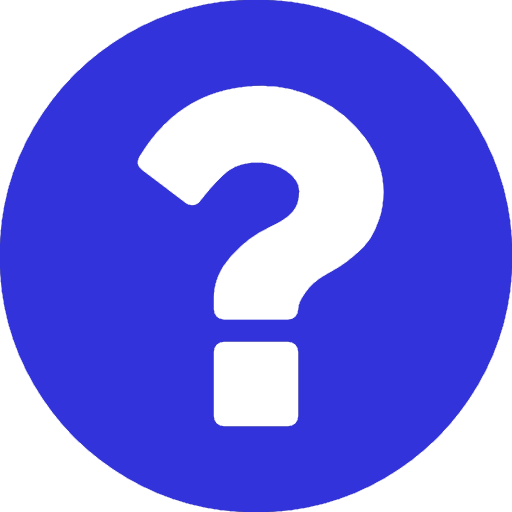
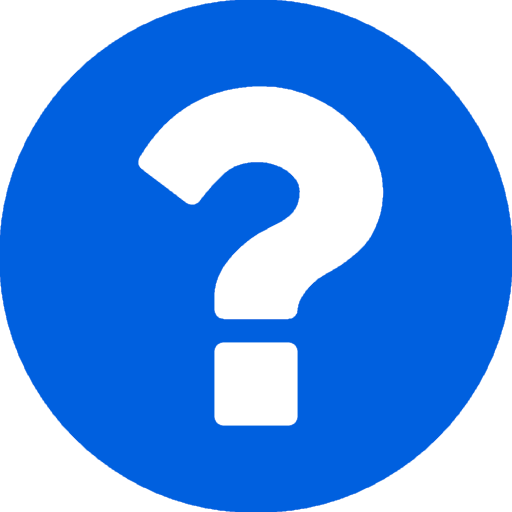
styling improvement

diff --git a/static/styles.css b/static/styles.css
@@ -1,17 +1,10 @@
 body {
-    padding: 10px;
+    padding-left: 10px;
     font-family: 'Poppins', sans-serif;
-}
-
-
-
-h1 {
-    justify-content: center;
 }
 
 label {
     font-size: large;
-    font-weight: 100;
     margin-bottom: 5px;
 }
 
@@ -22,20 +15,13 @@ img {
     height: auto;
 }
 
-
-
 textarea{
     font-family:Verdana, Geneva, Tahoma, sans-serif;
     padding: 5px;
     background-color: rgb(236, 236, 236);
     border-radius: 5px;
     border: none;
-}
-
-
-
-p {
-    color: red;
+    margin-bottom:10px;
 }
 
 .analyzeForm {
@@ -45,51 +31,41 @@ p {
     justify-content:center;
     margin:auto;
     width: 100%;
-    height:80vh;
+    height: 85vh;
 }
 
 .containerAnalysis {
     display: flex;
-    width:49.5%;
-    /* max-width: 450px; */
+    width: 47vmax;
     flex-direction:column;
-    min-width: 450px;
-    min-height: 100px;
     margin-right: 10px;
 }
 
 .containerAnalysis textarea {
-    max-width: 100%;
-    min-width: 90%;
-    min-height: 100px;
+    min-height: 220px;
     height: 100%;
     resize: vertical;
 }
 
-
-
-
 .containerQuestionAnswer {
     display: flex;
-    width:49.5%;
-    /* max-width: 450px; */
+    width:47vmax;
     flex-direction:column;
-    min-width: 450px;
-    min-height: 100px;
     align-items: center;
+    margin-right: 10px;
 }
 
 .inputQuestion {
     display: flex;
-    /* max-width: 450px; */
     flex-direction:column;
-    height: 70px;
+    height: 82px;
     width: 100%;
 }
 
 .inputQuestion input {
     height: 100%;
     font-family:Verdana, Geneva, Tahoma, sans-serif;
+    font-size: medium;
     padding: 5px;
     background-color: rgb(236, 236, 236);
     border-radius: 5px;
@@ -103,42 +79,37 @@ p {
     flex-direction:column;
     width: 100%;
     height: 100%;
-    min-width: 450px;
     min-height: 100px;
 }
 
 .textAreaAnswer textarea{
-    max-width: 100%;
-    min-width: 90%;
     min-height: 100px;
     height: 100%;
     resize: vertical;
 }
 
-
-
 .submitButton {
-    margin: auto;
     width: 100%;
+    height: 40px;
     padding: 10px;
     margin-top: 10px;
     margin-bottom: 10px;
-    font-family:Verdana, Geneva, Tahoma, sans-serif;
+    font-family: 'Poppins', sans-serif;
     background-color: rgb(236, 236, 236);
     border-radius: 5px;
     color: black;
-    border: solid 2px rgb(51, 51, 219);
+    border: solid 2px #0060DF;
     transition-duration: 0.2s;
 }
   
   .submitButton:hover {
-    background-color: rgb(51, 51, 219); /* Green */
+    background-color: #0060DF; /* Green */
     color: white;
   }
 
 .loader {
     border: 4px solid #f3f3f3; /* Light grey */
-    border-top: 4px solid rgb(51, 51, 219); /* Blue */
+    border-top: 4px solid #0060DF; /* Blue */
     border-radius: 50%;
     width: 20px;
     height: 20px;

diff --git a/templates/index.html b/templates/index.html
@@ -11,24 +11,25 @@
 
 <body>
     <h1>
-    <img src="{{ url_for('static', filename='questionmark.png') }}" alt="Italian Trulli">
-    Question Answering</h1>
+        <img src="{{ url_for('static', filename='questionmark.png') }}" alt="Italian Trulli">
+        Question Answering
+    </h1>
     <form class="analyzeForm" id="analyzeForm" onSubmit="processInputs()" name="question_form">
         <div class="containerAnalysis">
-            <label for="textToAnalyze">Text for Analysis:</label>
-            <textarea id="textToAnalyze" name="textToAnalyze"></textarea><br><br>
+            <label for="textToAnalyze">Text for Analysis</label>
+            <textarea id="textToAnalyze" name="textToAnalyze" maxlength="20480"></textarea><br><br>
         </div>
         <div class="containerQuestionAnswer">
             <div class="inputQuestion">
-                <label for="question">Question:</label>
+                <label for="question">Question</label>
                 <input type="text" id="question" name="question"></textarea><br><br>
             </div>
-            <input class="submitButton" id="submitButton" type="submit" value="Answer Question" >
+            <input class="submitButton" id="submitButton" type="submit" value="Answer Question">
             <div id="loaderContainer" class="loaderContainer">
-                <div class="loader"></div> 
+                <div class="loader"></div>
             </div>
             <div class="textAreaAnswer">
-                <label for="answer">Answer:</label>
+                <label for="answer">Answer</label>
                 <textarea id="answer" name="answer"></textarea><br><br>
             </div>
         </div>
@@ -36,7 +37,7 @@
 
     <script>
         var form = document.getElementById("analyzeForm");
-        function handleForm(event) { event.preventDefault(); } 
+        function handleForm(event) { event.preventDefault(); }
         form.addEventListener('submit', handleForm);
         var displaySpinner = false;
 
@@ -69,7 +70,7 @@
             xhr.onerror = function () {
                 console.error(xhr.statusText);
             };
-            xhr.send(JSON.stringify({ text: text, question: question })); 
+            xhr.send(JSON.stringify({ text: text, question: question }));
 
             // Process the inputs and set the output value
             // answer.value = "textToAnalyze: " + text + "\nquestion: " + question;
